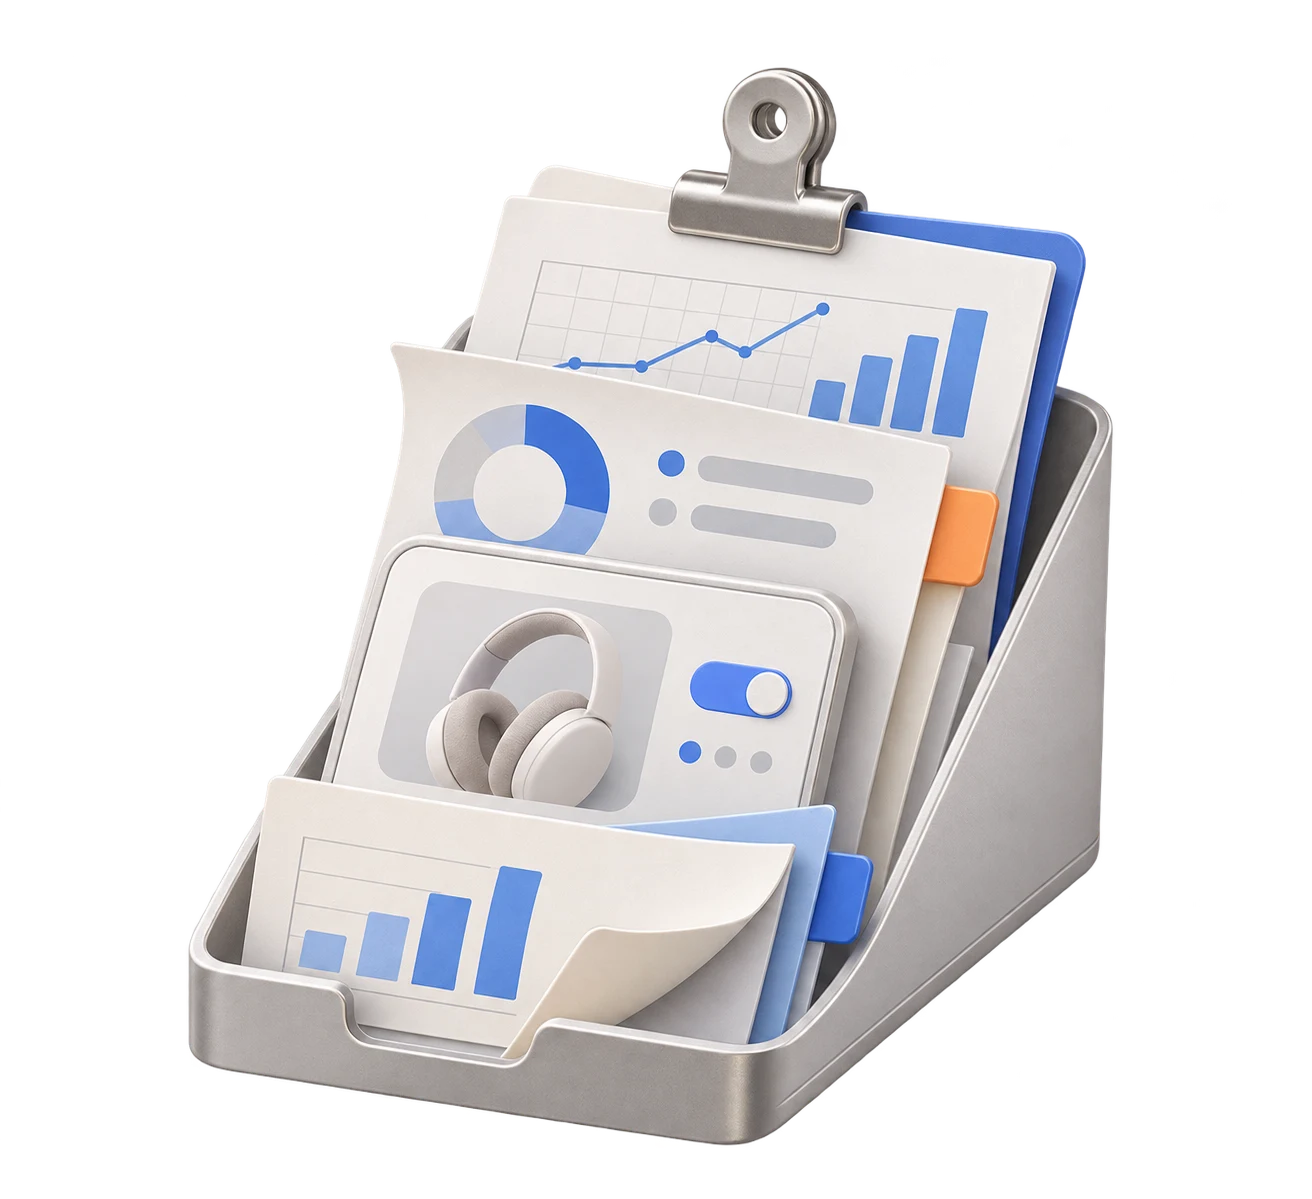
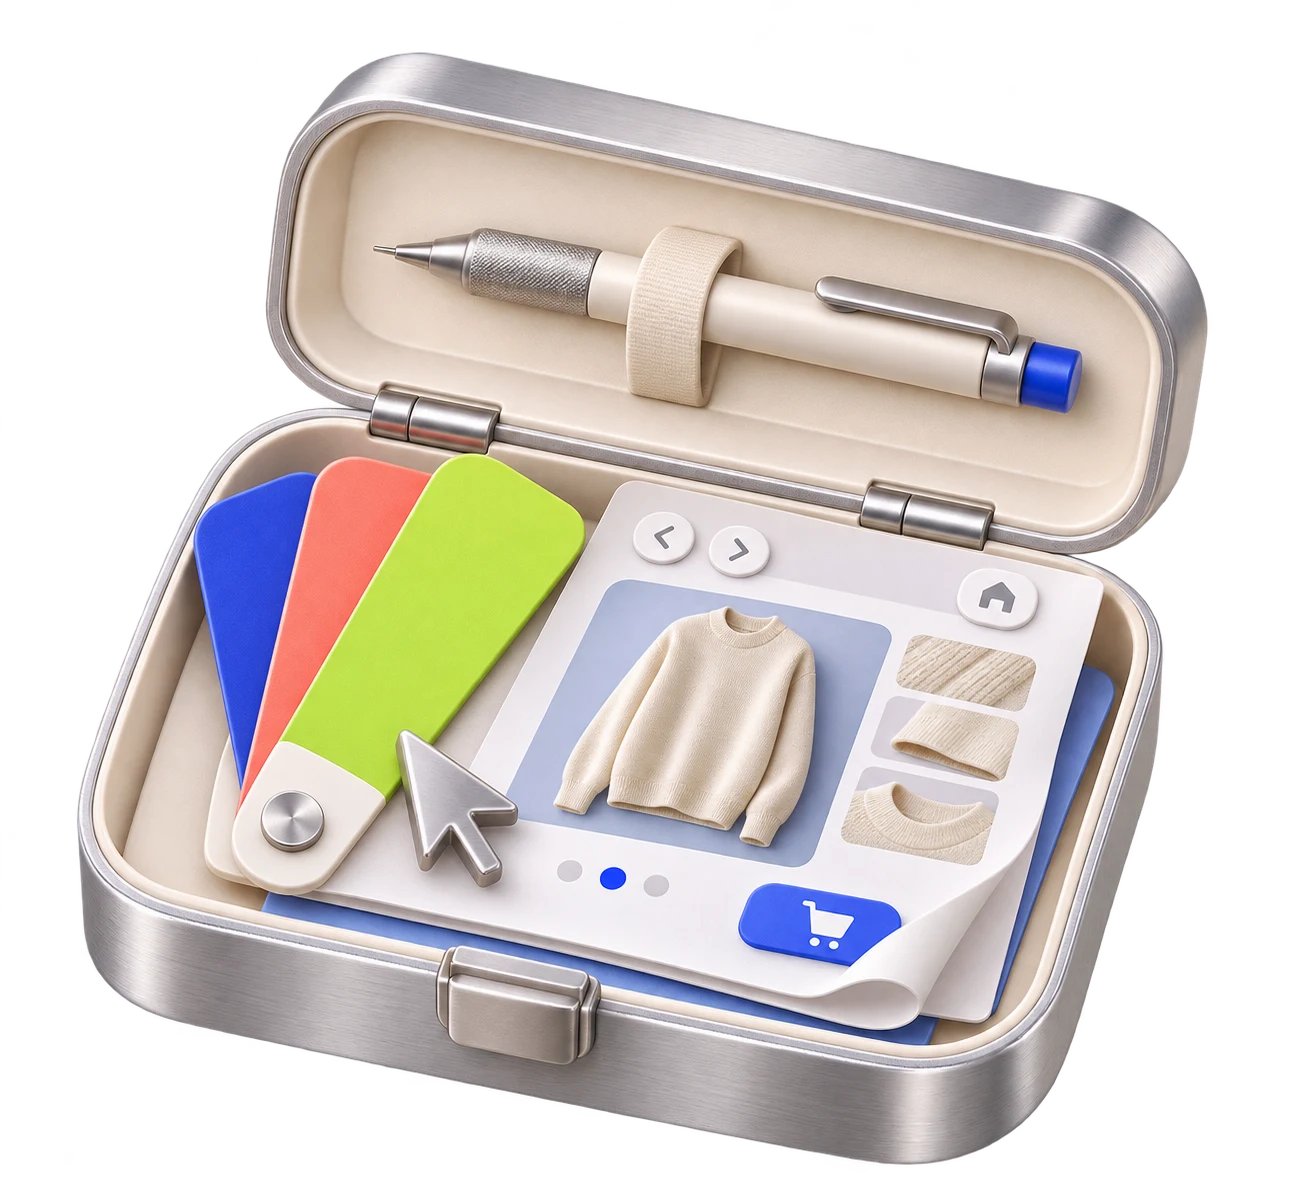
design(about): regenerate studio hero illustration

diff --git a/client/src/components/AboutPage.tsx b/client/src/components/AboutPage.tsx
@@ -10,7 +10,7 @@ export default function AboutPage({ onNavigate }: AboutPageProps) {
   const copy = ru ? {
     eyebrow: 'СТУДИЯ WEB4TG', title: 'Приложения в Telegram',
     intro: 'Онлайн-магазины, запись на услуги и другие сервисы для вашего бизнеса.',
-    heroAlt: 'Органайзер с карточкой товара и листами',
+    heroAlt: 'Творческий набор с макетом приложения',
     order: 'Обсудить проект', explore: 'Узнать о студии',
     sectionLabel: 'ОТ ИДЕИ ДО ЗАПУСКА', sectionTitle: 'Продумано для людей',
     sectionText: 'Соединяем задачи бизнеса и удобство клиентов в одном приложении.',
@@ -26,7 +26,7 @@ export default function AboutPage({ onNavigate }: AboutPageProps) {
   } : {
     eyebrow: 'WEB4TG STUDIO', title: 'Apps in Telegram',
     intro: 'Online stores, appointment booking and other services for your business.',
-    heroAlt: 'An organizer with a product card and sheets',
+    heroAlt: 'A creative kit with an app design',
     order: 'Discuss a project', explore: 'Discover the studio',
     sectionLabel: 'FROM IDEA TO LAUNCH', sectionTitle: 'Designed for people',
     sectionText: 'We bring business needs and customer experience together in one app.',

diff --git a/EDIT_LOG.md b/EDIT_LOG.md
@@ -947,6 +947,15 @@ build memory + a11y + CI auto-fix that empower the single agent.
 **Verification:** Checked the Russian heading in local Chromium at 320 and 390 px; the narrow heading fits on one line without horizontal overflow.
 
 ---
+## 2026-11-07 · Regenerate About hero illustration
+
+**What:** Replaced the first-screen illustration with a new creative kit, and updated its alternative text in Russian and English.
+**Why:** The user rejected the previous icon and reiterated that each reference uses a meaningful, distinct physical composition.
+**Files:** `client/public/about-studio/hero.webp`, `client/src/components/AboutPage.tsx`.
+**Checkpoint:** `257dd7e`.
+**Verification:** Inspected alpha on white and gray; reviewed the About page at 320 and 390 px in Chromium, with the image loaded, no horizontal overflow and no page errors. The new artwork has not yet been evaluated by the user.
+
+---
 <!-- Future entries appended ABOVE this line by the AI agent. Template:
 
 ## YYYY-MM-DD HH:MM · short description
